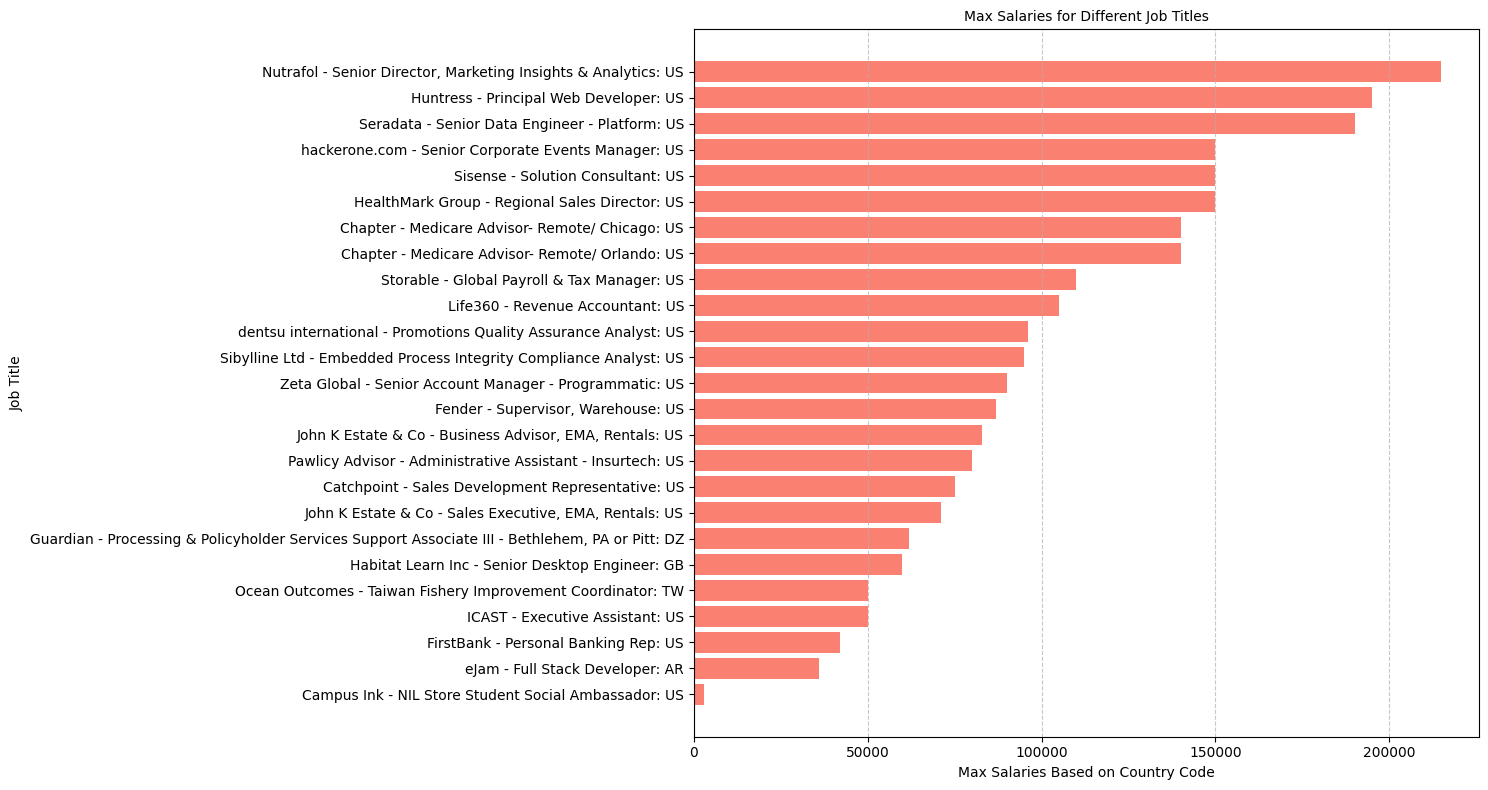
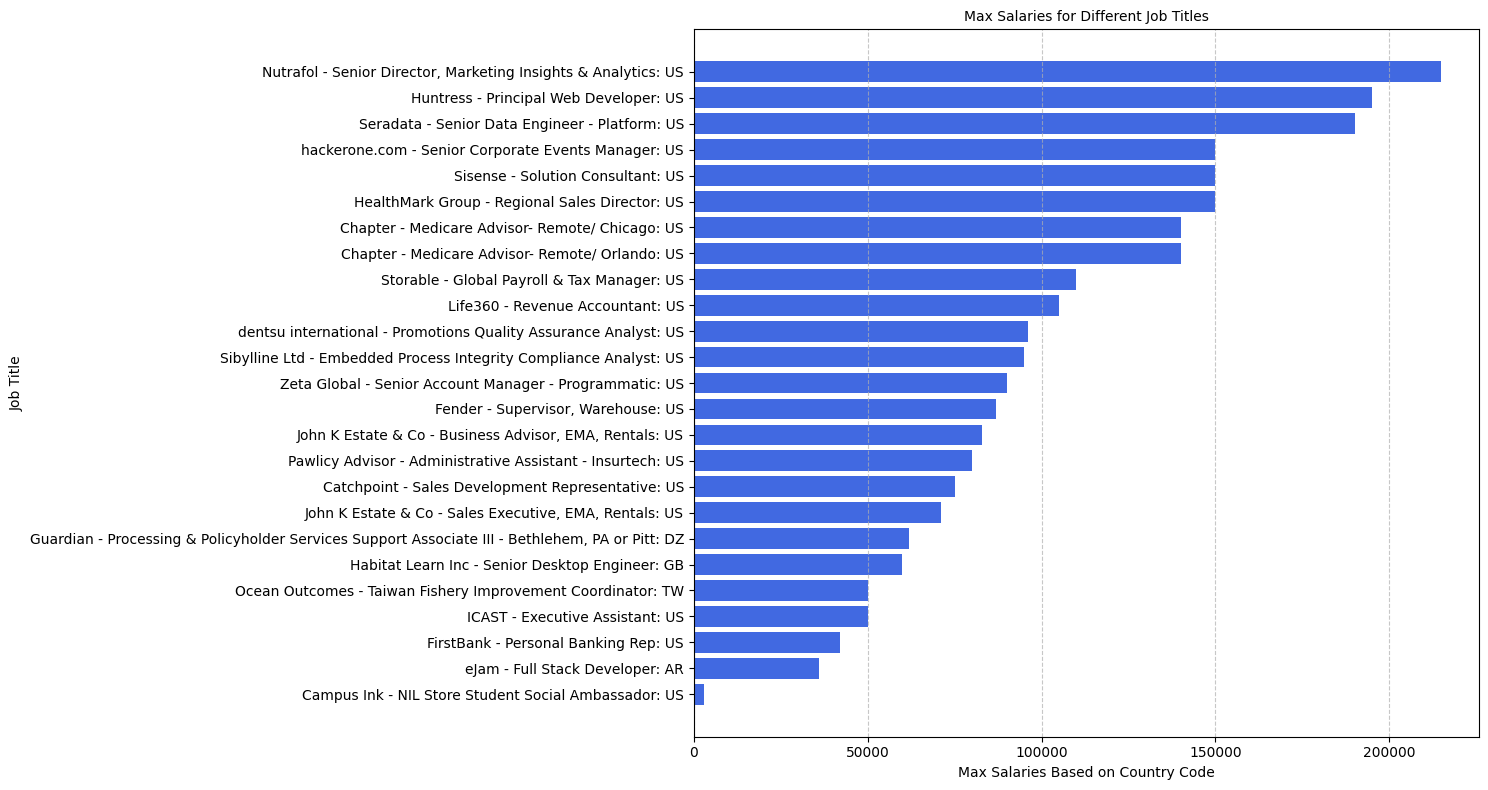
Delete agg data, add read_csv to data_to_csv, create folder for plots, make rand colors and funcs separate

Changed region(s): [[0.4637, 0.0608, 0.9892, 0.881]]

diff --git a/data_analysis/pandas_data/data_to_csv.py b/data_analysis/pandas_data/data_to_csv.py
@@ -1,10 +1,32 @@
-from .data_manipulation import df, df_aggregated
+from .data_manipulation import df
+import pandas as pd
 
 # Pre-cleaned data to CSV
 df.to_csv("data_analysis/pandas_data/processed_job_data.csv", index=False)
+df = pd.read_csv("data_analysis/pandas_data/processed_job_data.csv")
 
-# Aggregated data to csv
-df_aggregated.to_csv(
-    "data_analysis/pandas_data/processed_agg_job_data.csv", index=False
-)
-print("\ndata created: processed_job_data.csv\n")
+company_names, job_titles, locations, currencies, starting_salaries, max_salaries = [
+    [] for i in range(6)
+]
+count = 0
+
+while count != 25:
+    company_names.append(df["company_name"][count])
+    job_titles.append(df["job_title"][count])
+    locations.append(df["location"][count])
+    currencies.append(df["currency"][count])
+    starting_salaries.append(df["starting_salary"][count])
+    max_salaries.append(df["max_salary"][count])
+    count += 1
+
+data = {
+    "company_names": company_names,
+    "job_titles": job_titles,
+    "locations": locations,
+    "currencies": currencies,
+    "starting_salaries": starting_salaries,
+    "max_salaries": max_salaries,
+}
+
+df = pd.DataFrame(data)
+# print(df)

diff --git a/data_analysis/matplotlib_visuals/plots.py b/data_analysis/matplotlib_visuals/plots.py
@@ -1,5 +1,6 @@
 import random
-from data_visuals import colors, df
+from .colors import colors
+from data_analysis.pandas_data.data_to_csv import df
 import matplotlib.pyplot as plt
 
 
@@ -41,7 +42,9 @@ def bar_plot(df):
     plt.title("Max Salaries for Different Job Titles", fontsize=10)
     plt.grid(axis="x", linestyle="--", alpha=0.7)
     plt.tight_layout()
-    plt.savefig("data_analysis/matplotlib_visuals/images/bar_plot.png")
+    plt.savefig(
+        "data_analysis/matplotlib_visuals/images/bar_plot.png", bbox_inches="tight"
+    )
     plt.show()
     plt.close()
 

diff --git a/data_analysis/pandas_data/data_manipulation.py b/data_analysis/pandas_data/data_manipulation.py
@@ -14,20 +14,3 @@ def request_data_to_dataframe(connection):
 
 df = request_data_to_dataframe(connection)
 # print(df.head())
-
-# Aggregated_data
-def aggregate_data(dataframe):
-    aggregated_df = (
-        dataframe.groupby("location")
-        .agg({"max_salary": ["sum", "mean", "max", "std"]})
-        .fillna(0)
-        .reset_index()
-    )
-
-    aggregated_df["max_salary"] = aggregated_df["max_salary"].round(2)
-    
-    return aggregated_df
-
-
-df_aggregated = aggregate_data(df)
-print(df_aggregated)

diff --git a/data_analysis/matplotlib_visuals/colors.py b/data_analysis/matplotlib_visuals/colors.py
@@ -1,0 +1,22 @@
+colors = [
+    "lightcoral",
+    "maroon",
+    "salmon",
+    "chocolate",
+    "peru",
+    "bisque",
+    "moccasin",
+    "khaki",
+    "chartreuse",
+    "darkseagreen",
+    "turquoise",
+    "teal",
+    "steelblue",
+    "slategray",
+    "royalblue",
+    "slateblue",
+    "indigo",
+    "fuchsia",
+    "orchid",
+    "crimson",
+]
